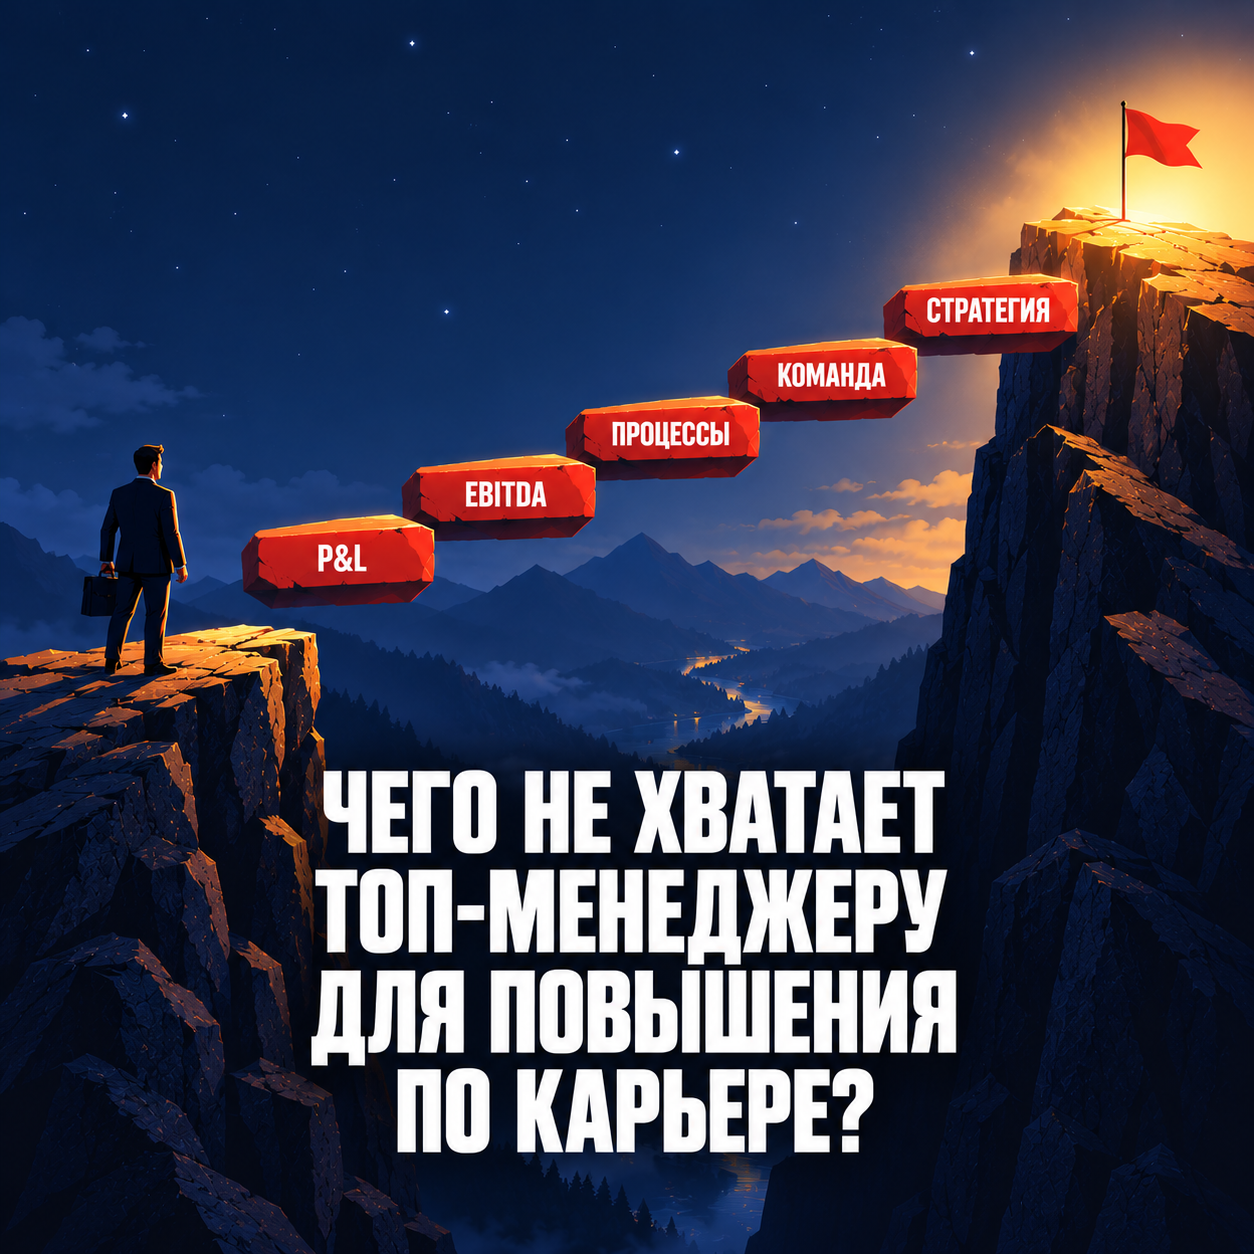
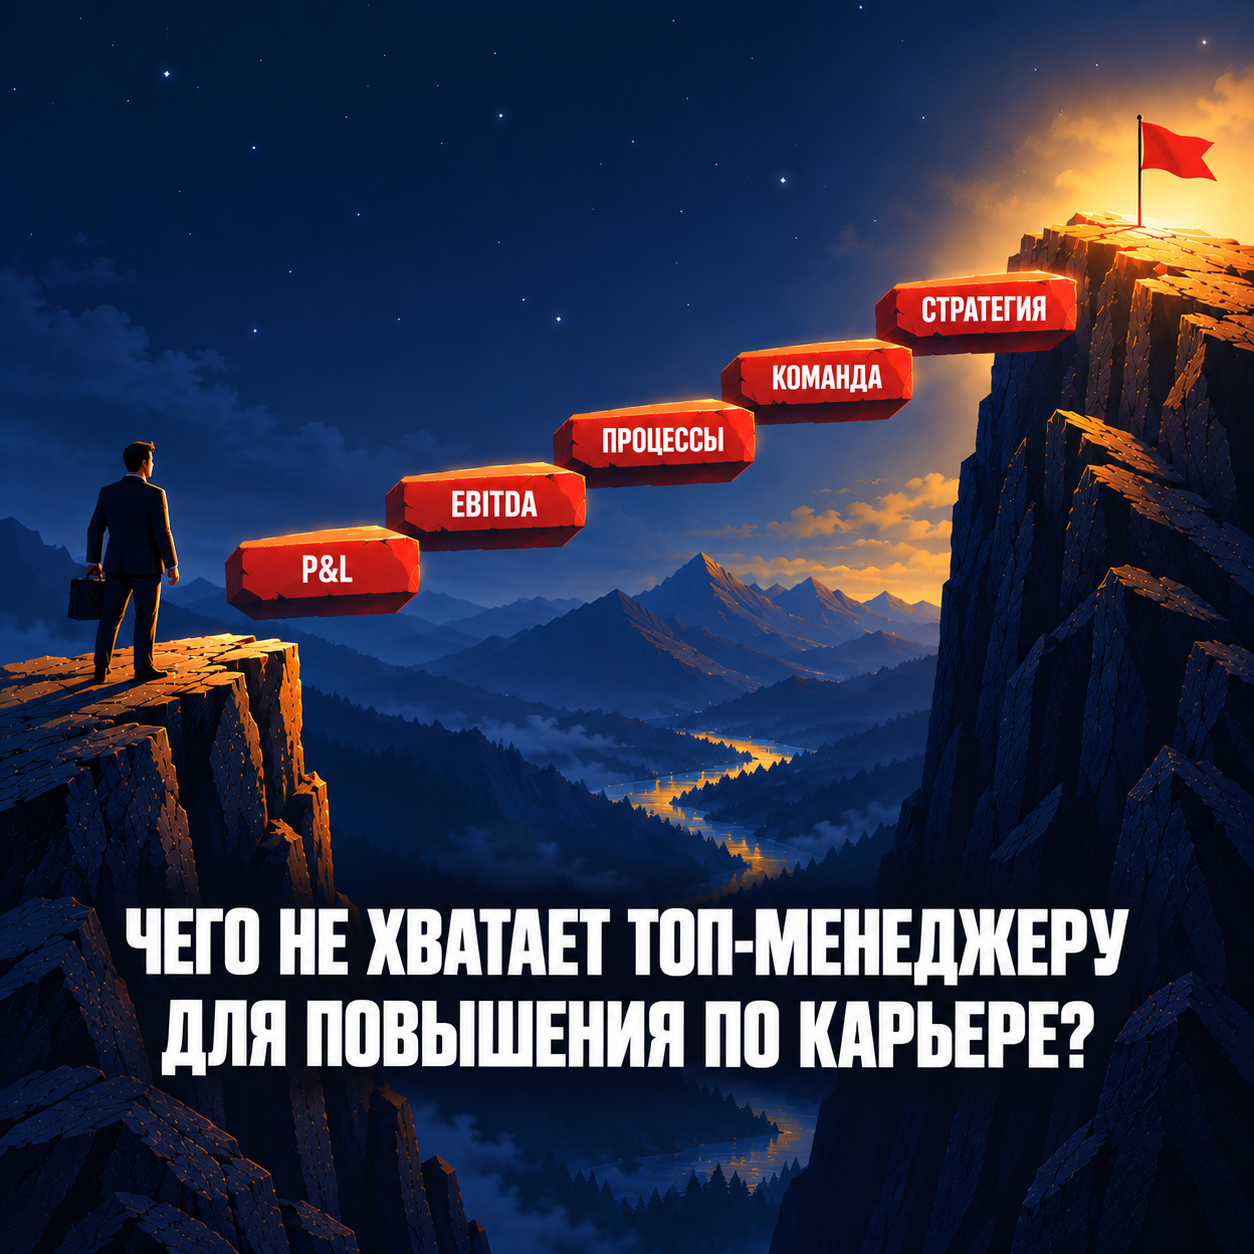
Крео: карьерный мост

diff --git a/offers.html b/offers.html
@@ -102,7 +102,7 @@ mark{background:#f5d94e66;border-bottom:1px dashed #b39b00;padding:0 3px;color:i
 
 <h2 id="kviz">Квиз</h2>
 
-<div class="ofr" data-creo="creo/career-ladder.png?v=2e330361" data-ttl="Чего не хватает для повышения по карьерной лестнице?">
+<div class="ofr" data-creo="creo/career-ladder.png?v=5e0e328c" data-ttl="Чего не хватает для повышения по карьерной лестнице?">
   <div class="n">01</div>
   <h3>Чего не хватает для повышения по карьерной лестнице?</h3>
   <p>Пройдите деловую игру из 6 ситуаций и получите разбор карьеры: чего вам не хватает до следующей позиции.</p>
